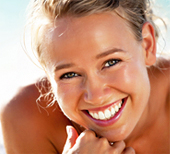
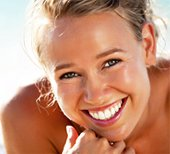
Сжал картинки, асправил баг в скрипте календаря

diff --git a/src/js/components/calendar.js b/src/js/components/calendar.js
@@ -12,7 +12,7 @@
         var active = items.querySelector('div[active]');
         active.removeAttribute('active');
         date.setAttribute('active', '');
-      })
+      });
     });
 
     function updateActiveElement(baseElement, targetElement) {
@@ -26,14 +26,14 @@
 
       newElement.appendChild(time);
       activeItem.replaceChild(newElement, date);
-    }
+    };
 
-    function createElement(tag, className, content='') {
+    function createElement(tag, className, content) {
       var element = document.createElement(tag);
       element.className = className;
       element.innerHTML = content;
       return element;
-    }
+    };
 
   } catch(err) {
     console.log(err);

diff --git a/gulpfile.js b/gulpfile.js
@@ -121,8 +121,8 @@ gulp.task('build', gulp.series(
     'js:build',
     'fonts:build',
     'img:build'
-  )
-  // 'critical'
+  ),
+  'critical'
 ));
 
 gulp.task('watch', function() {
